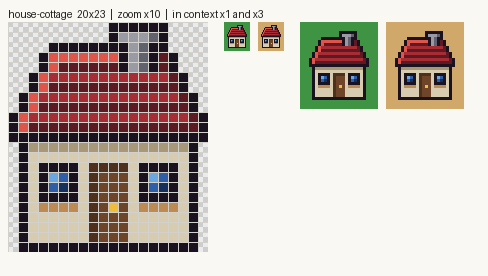
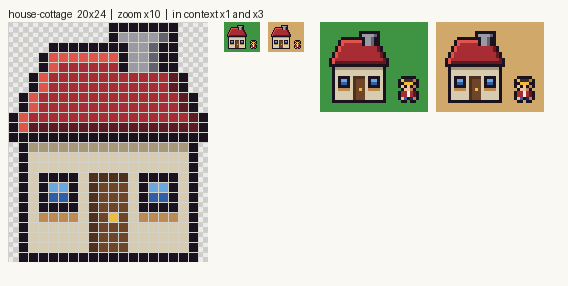
Add cottage round 1 revision
Claude-Session: https://claude.ai/code/session_017hBigdyyagtCxF8RX9TYQB

diff --git a/art/work/house-cottage/notes.md b/art/work/house-cottage/notes.md
@@ -1,30 +1,29 @@
 # house-cottage
 
-20 x 23, the spec size. Front view from slightly above, light from the top left. Symmetric about the line between x9 and x10, except the chimney and the lighting.
+20 x 24. The spec says 20 x 23 (flexible); I added one wall row in round 1, explained below. Front view from slightly above, light from the top left. The wall, door and windows are symmetric about the line between x9 and x10. The chimney and the lighting are not.
 
 ## Layout (rows)
 
 - 0-1: chimney cap above the roof.
 - 2-11: hip roof. Row 2 is the ridge outline, row 11 the underside of the eaves.
-- 12-21: plaster front wall. Row 22 is the bottom outline, standing on the ground.
+- 12-22: plaster front wall. Row 23 is the bottom outline, standing on the ground.
 
 ## Roof (`e R r`, swap colours only)
 
 - Hip roof drawn as a trapezoid: the ridge is 12 px wide (x4-15) and each hip steps out 1 px every 2 rows (an even 2-2-2-2 diagonal) to the eaves at full width. The sloping sides are what makes it a hip roof rather than a gable.
-- The eaves overhang the wall by 1 px on each side (x0 and x19), as real eaves do.
-- Each 2-row step is one course of tiles: the upper row `R` is the face of the tiles and the lower row `r` is the shadow under their edges. Because the courses follow the steps of the hip, the stepped outline and the tile rows tell the same story, and no pixel is texture.
-- Row 3 is `e` along its full width: the ridge cap, which faces the light most directly.
-- The left hip (x = inset + 1 on every roof row) is `e`: the hip's ridge tiles, lit from the left. The right hip end of every course is `r`, the side turned away from the light.
-- The bottom course is `r`, then the `k` eave line. That gives the dark band under the eaves that separates the roof from the wall.
-- I checked it with all six in-game roof swaps (red, blue, brown, green, slate, thatch-gold) and all four wall swaps. The courses stay readable even with the close-toned swap ramps.
+- The eaves overhang the wall by 1 px on each side (x0 and x19).
+- The slope is one flat `R` area. There are no tile stripes; the swap colour and the stepped outline are enough to say "tiled roof" at this size.
+- Row 3 is `e` across: the ridge cap, which faces the light. The left hip (the first roof pixel of every row) is `e`, the hip tiles catching light from the left. The right hip (the last roof pixel of every row) is `r`, turned away from the light.
+- Row 10, the bottom course, is `r`: the shadow under the tile edge at the eaves. With the `k` eave line in row 11 it makes one dark band that separates the roof from the wall.
+- I checked it with all six in-game roof swaps and all four wall swaps.
 
 ## Chimney (stone `u T`, `k`)
 
-- It rises from the right half of the front slope, x11-14, so it breaks the silhouette at the top right and the house reads at 1x as "cottage with a chimney". It is off centre so it doesn't fight the centred door.
-- Body: 2 px of stone, `u` on the lit left and `T` on the shaded right.
-- Cap (rows 0-1): a lip 1 px wider on each side, `u u u T`, the stone cap found on real chimneys. The body's outline under the lip also serves as the shadow beneath it.
-- It sits in front of the slope, and 1 px of roof shows to its right (x15) so it doesn't merge with the hip outline.
-- I tried a dark `K` flue opening and dropped it, because next to the `k` outline it made a black blob.
+- It stands at the right end of the ridge and straddles it: the body is at x12-14, with the outline at x11 and x15. It breaks the silhouette at the top right, so the house reads at 1x as "cottage with a chimney", and it sits off centre so it doesn't compete with the centred door.
+- Body: 3 px of stone, `u u` on the lit side and `T` on the shaded right.
+- Cap (rows 0-1): a lip 1 px wider on each side, `u u u u T`, the stone cap found on real chimneys. The body's outline under the lip also serves as the shadow beneath it.
+- Its right outline (x15) runs beside the roof's right outline (x16) on rows 3-4. The pixel at (16,2) is `k`, so the right edge of the silhouette is one straight step with no notch in it.
+- The stone simply stops at row 5, where the `R` roof begins. Grey against red needs no line.
 
 ## Walls (`C c`, swap colours only)
 
@@ -33,20 +32,27 @@
 
 ## Door (`w W`, knob `y`)
 
-- 4 x 8 px at x8-11, rows 14-21, exactly centred and standing on the ground line. With the bottom outline the opening is 9 rows, the captain's height, and its 4 px width matches the captain's body inside his outline.
+- 4 x 8 px at x8-11, rows 15-22, exactly centred and standing on the ground line. With the bottom outline the opening is 9 rows, the captain's height, and its 4 px width matches the captain's body inside his outline. In the preview the captain fits it exactly.
 - The door is set into the wall, so the top-left light leaves the inner jamb and lintel in shadow: the left column and top row are `w`, and the door leaf is `W`.
-- One `y` pixel at (10,18) is the brass knob, on the opening side at hand height.
-- I tried a rounded top. At 4 px wide it became a 2 px nub, so I used a square top.
+- One `y` pixel at (10,19) is the brass knob, on the opening side at hand height.
 - No `k` frame: the dark wood already separates clearly from the plaster, and a frame would close the 1 px of wall between the door and each window.
 
-## Windows (`k` frame, glass `l B b`, sill `V`)
+## Windows (`k` frame, glass `l B`, sill `V`)
 
-- 4 x 4 px at x3-6 and x13-16, rows 14-17, mirror images of each other. Their tops line up with the top of the door.
-- The `k` frame is the dark window frame and glazing. Inside it is a 2 x 2 pane: `l` top left (sky reflection where the light comes from), `B` on the diagonal, and `b` bottom right.
-- Row 18 is a light-wood sill `V`, 4 px, under each window.
-- I tried a brown wood frame (it went muddy and blended with the door) and a frameless 4 x 4 pane (heavy blue blocks that read less clearly as windows). The `k` frame reads best at 1x.
-- There is 1 px of wall between each window and both the wall edge and the door. That keeps the front tight and cottage sized.
+- 4 x 4 px at x3-6 and x13-16, rows 15-18. Their tops line up with the top of the door. The two windows are identical copies, not mirror images, so both are lit from the same side.
+- The `k` frame is the dark window frame. Inside it is a 2 x 2 pane in two tones: `l l` on top (the sky reflected from above) and `B B` below.
+- Row 19 is a light-wood sill `V`, 4 px, under each window.
 
 ## Palette
 
-`k`, roof `e R r`, wall `C c`, stone `u T`, wood `w W V`, brass `y`, glass `l B b`. The swap characters `e R r C c` appear nowhere outside the roof and wall.
+`k`, roof `e R r`, wall `C c`, stone `u T`, wood `w W V`, brass `y`, glass `l B`. The swap characters `e R r C c` appear nowhere outside the roof and wall.
+
+## Round 1
+
+1. [MAJOR] Roof banding: fixed. Rows 4, 6, 8 and 9 are now `R` across, keeping the `e` left hip and the `r` right hip. Row 10 is the only full `r` row, the shadow under the eaves. I added no tile joint pixels, so the standard for buildings is a flat roof.
+2. [MINOR] `r` sliver at (15,3) and (15,4): fixed. The chimney was widened, so its outline now sits at x15 and the roof outline follows at x16. I also set (16,2) to `k` to close a 1 px notch between the cap and the roof edge.
+3. [MINOR] Chimney too thin: fixed as directed. The body is `u u T` at x12-14 with `k` at x11 and x15. Row 1 is `k u u u u T k` (x10-16) and row 0 is `k` at x10-16. Row 5 is left as roof.
+4. [MINOR] Windows too dark, with 3 tones in 4 px: fixed with the two-tone pane, `l l` over `B B`, as you preferred.
+5. [MINOR] Sill no wider than the frame: kept at frame width on purpose. Extending it to x2-7 and x12-17 would make the sill touch the wall outline at x1 and x18 and the door at x8 and x11. It would merge into them and remove the plaster gaps that separate the three openings. At 4 px the sill still reads as a ledge under each window.
+6. [MINOR] Squashed wall: fixed. I added one plaster row under the eave shadow, so the sprite is now 20 x 24 (flexible, +1 row). There are now 3 rows of wall above the door and windows (row 12 eave shadow, rows 13-14 plaster). The roof is 10 of 24 rows (42% of the height, down from 43%), and with the taller wall the front no longer looks pressed under the roof. The door stays 8 px and the captain still fits it exactly.
+7. [MINOR] Notes inaccurate: fixed. The windows are now described as identical copies, not mirrors, and the chimney as straddling the right end of the ridge.
